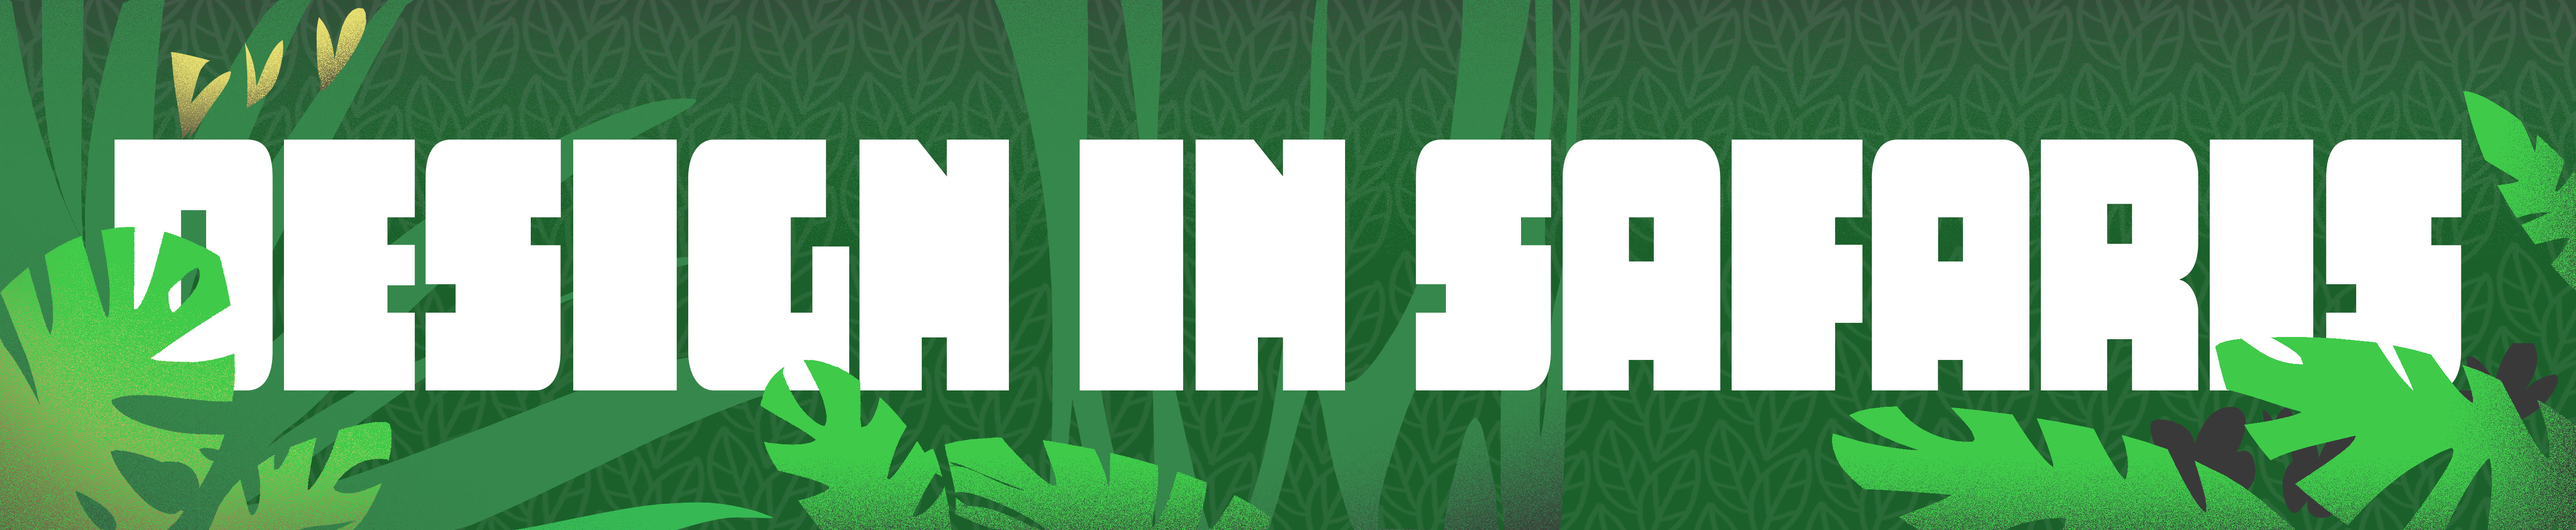
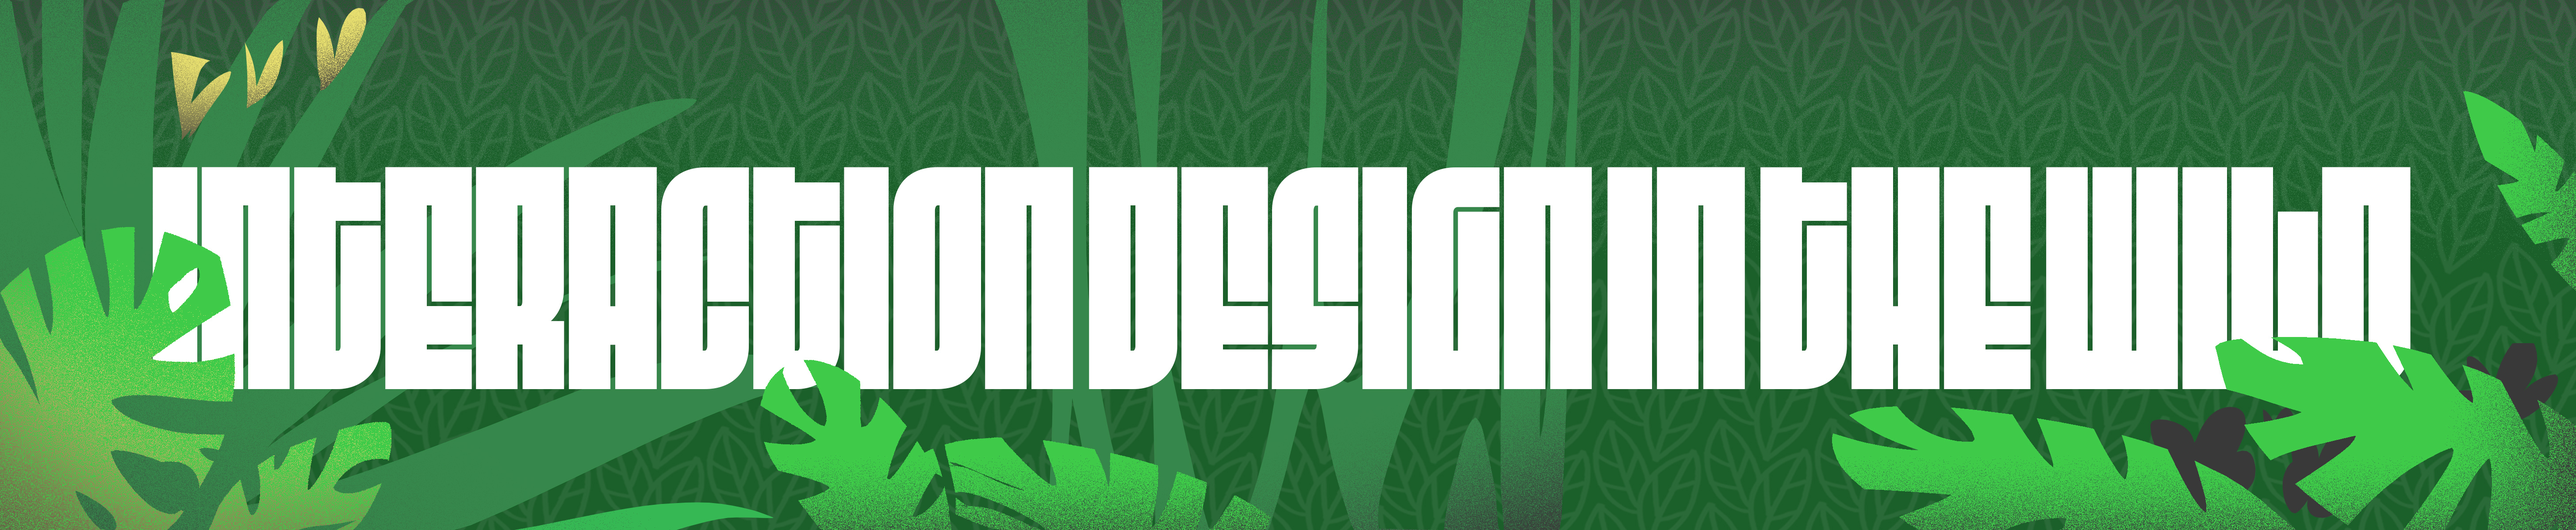
change title

diff --git a/index.html b/index.html
@@ -3,7 +3,7 @@
   <head>
     <meta charset="utf-8">
     <link rel="stylesheet" href="css/style.css">
-    <title>Design In Safaris</title>
+    <title>Interaction Design in the Wild</title>
   </head>
   <body>
 <div class="HeaderPic">
@@ -11,7 +11,7 @@
 </div>
 <div class="guide">
   <div class="homework">
-    <h1 class="openline">Hi! My name is Yufei Zhang and this is my portfolio page for Design in Safaris class! Click the link below to check out all the work!</h2>
+    <h1 class="openline">Hi! My name is Yufei Zhang and this is my portfolio page for Interaction Design in the Wild class! Click the link below to check out all the work!</h2>
       <ul>
         <li>  <a href="HW01"><div class=nov id=zuoye01><h1>HW01:  Anthropomorphism and Anthropodenial</h1></div></a></li>
         <li><a href="HW02"><div class=nov id=zuoye02><h1>HW02:  Observations and Ethograms</h1></div></a></li>

diff --git a/css/style.css b/css/style.css
@@ -1,7 +1,7 @@
 body{
   margin: 0;
   padding: 0;
-  background-color: #96ff9f;
+  background-color: #ffffff
 }
 .headerpicture{
   padding: 0;
